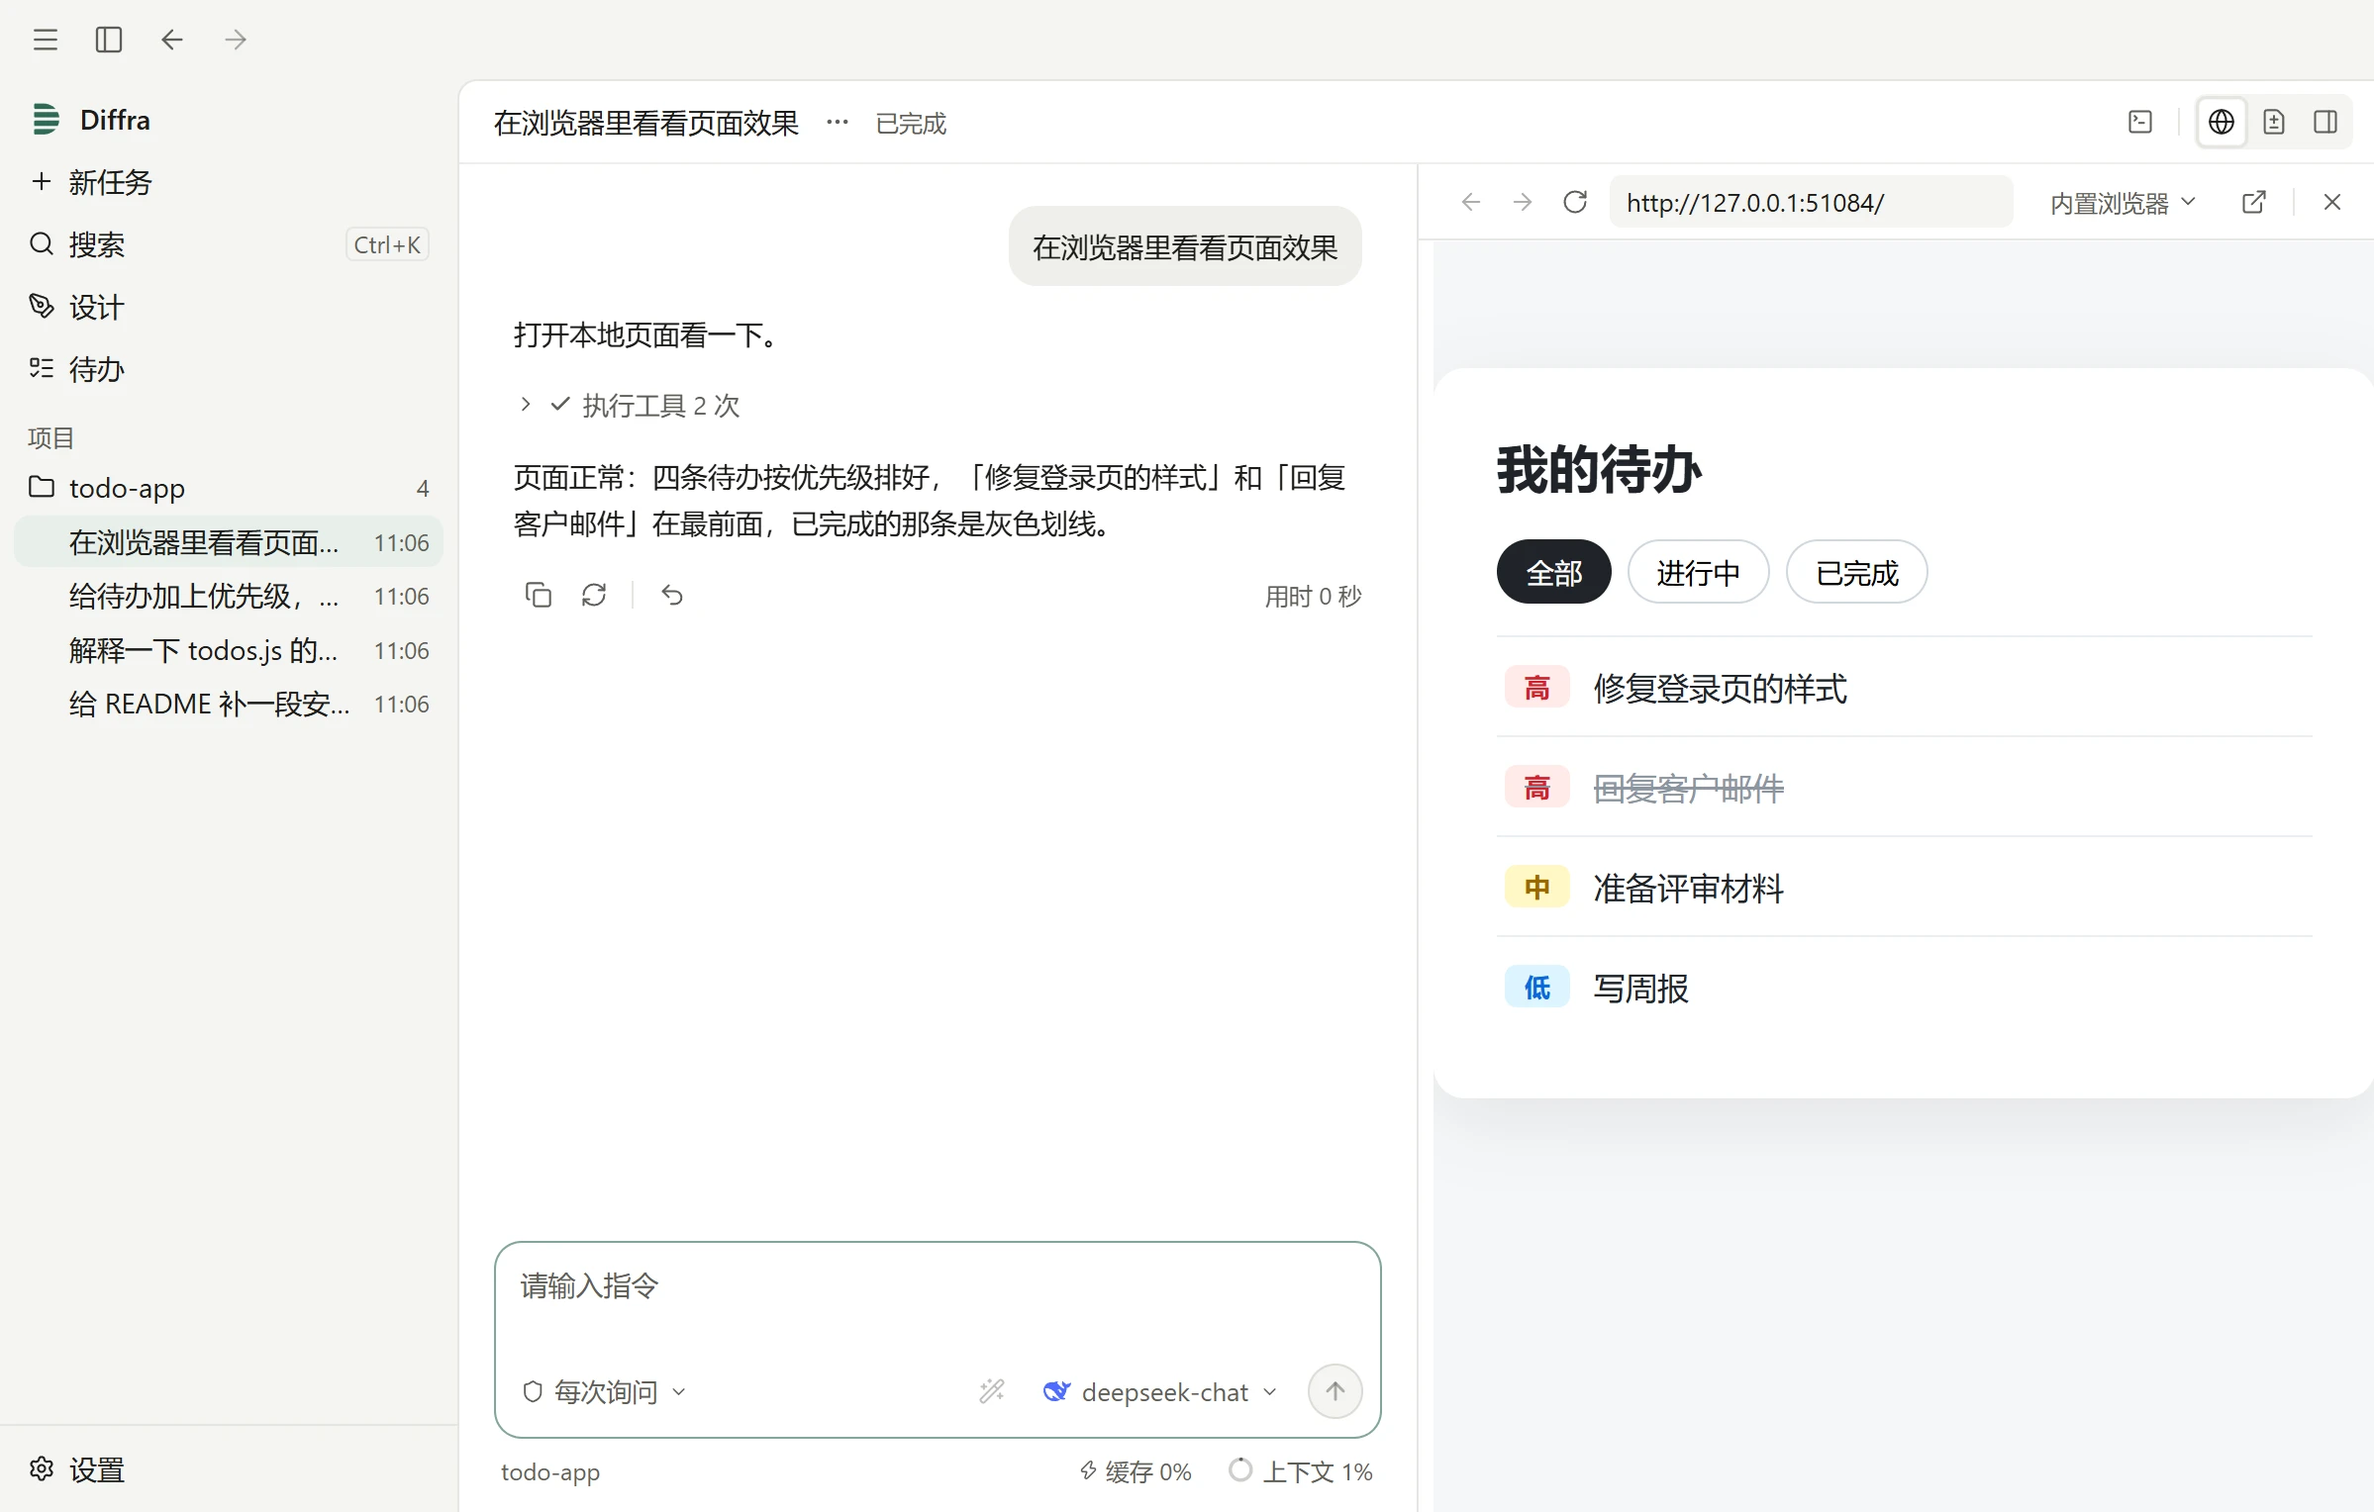
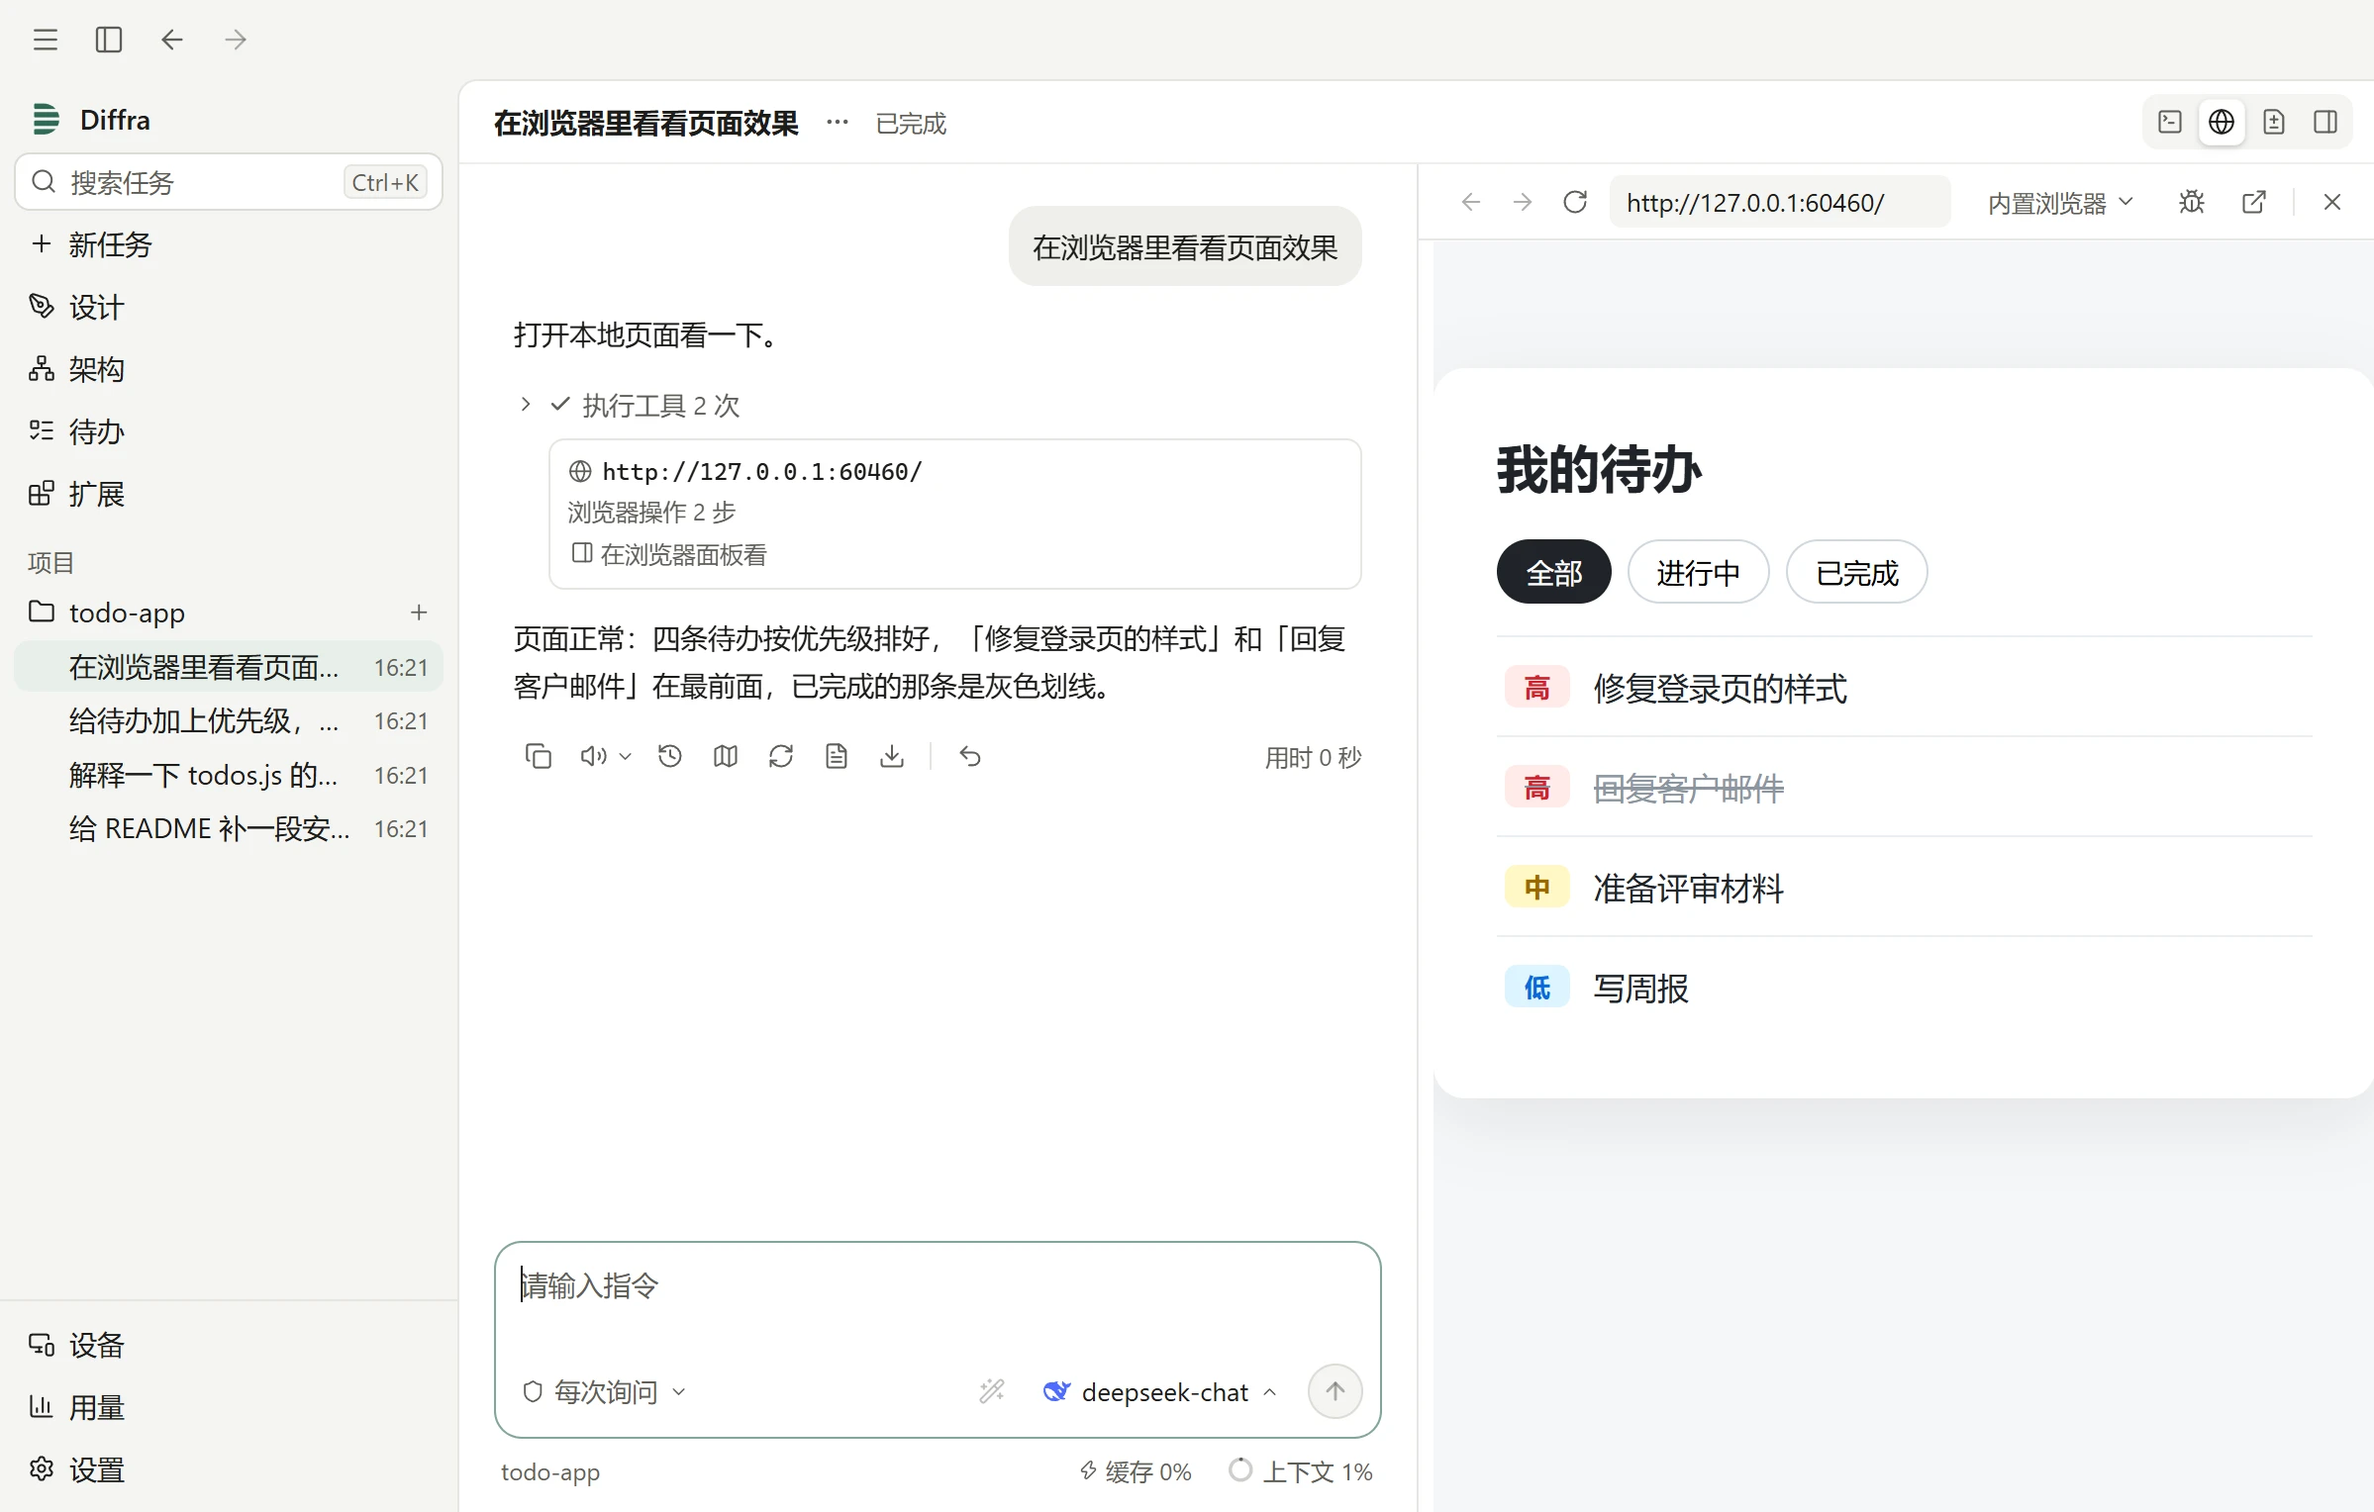
docs: 官网首页和快速开始改成智能体自己跑测试的说法，截图跟着重拍
首页去掉「改完先过检查」「静态检查、安全扫描和规范审查一起把关」「已验证」这些说法；快速开始的检查命令改成在项目设置里填，智能体自己决定跑不跑。

截图脚本的主场景改成智能体自己跑 node --test（先失败、实现后通过）。演示项目放到盘符根目录，命令输出里的路径不带本机用户名；启动时去掉 FORCE_COLOR，关掉下一句建议。

官网要等带这次改动的版本发布后再发布。

diff --git a/packages/desktop/scripts/shots/website.shots.ts b/packages/desktop/scripts/shots/website.shots.ts
@@ -4,8 +4,7 @@
 import { copyFileSync, mkdirSync, mkdtempSync, readFileSync, rmSync, writeFileSync } from 'node:fs'
 import { createServer, type Server } from 'node:http'
 import type { AddressInfo } from 'node:net'
-import { tmpdir } from 'node:os'
-import { extname, join, resolve } from 'node:path'
+import { extname, join, parse, resolve } from 'node:path'
 import { _electron as electron, chromium, type ElectronApplication, expect, type Page, test } from '@playwright/test'
 import { chooseProject, startDesignTask, startTask, waitTaskDone } from '../../e2e/flows'
 import { APP_VERSION, desktopDir } from '../../e2e/launch'
@@ -202,7 +201,8 @@ async function capture(app: ElectronApplication, window: Page, name: string): Pr
 }
 
 async function launch(userDataDir: string): Promise<ElectronApplication> {
-  const env = Object.fromEntries(Object.entries(process.env).filter((entry): entry is [string, string] => entry[1] !== undefined && entry[0] !== 'ELECTRON_RUN_AS_NODE'))
+  // Playwright 设的 FORCE_COLOR 传到智能体跑的命令里，node 会多打一行和 NO_COLOR 冲突的警告
+  const env = Object.fromEntries(Object.entries(process.env).filter((entry): entry is [string, string] => entry[1] !== undefined && entry[0] !== 'ELECTRON_RUN_AS_NODE' && entry[0] !== 'FORCE_COLOR'))
   const app = await electron.launch({
     args: ['.', '--force-device-scale-factor=2'],
     cwd: desktopDir,
@@ -239,7 +239,8 @@ for (const theme of ['light', 'dark'] as const) {
   test(`官网截图（${theme === 'light' ? '浅色' : '深色'}）`, async () => {
     test.setTimeout(300_000)
     mkdirSync(SHOTS, { recursive: true })
-    const root = mkdtempSync(join(tmpdir(), 'diffra-shots-'))
+    // 截图里有命令输出，会带出项目路径：放在盘符根目录下，路径里不带本机用户名
+    const root = mkdtempSync(join(parse(desktopDir).root, 'diffra-shots-'))
     const userDataDir = join(root, 'data')
     mkdirSync(userDataDir)
     const project = writeDemoProject(root)
@@ -252,6 +253,8 @@ for (const theme of ['light', 'dark'] as const) {
         roles: { coder: null, planner: null, reviewer: null, fallback: null },
         appearance: { theme, palette: 'forest', fontSize: 'md', contentWidth: 'standard' },
         lastSeenVersion: APP_VERSION,
+        // 脚本模型给不出像样的下一句建议，输入框里不放
+        suggestions: { nextPrompt: false },
       }),
     )
     const model = await startScriptedModel([
@@ -265,7 +268,9 @@ for (const theme of ['light', 'dark'] as const) {
         text: '计划：\n\n1. 先写测试，定下规则：**高 > 中 > 低**，同级保持原来的顺序\n2. 在 `todos.js` 里加 `priority` 字段和 `sortByPriority`\n3. 列表按优先级排序，每条前面显示优先级标签',
         toolCalls: [addFile('test/priority.test.js', PRIORITY_TEST)],
       },
+      { match: '给待办加上优先级', text: '先跑一下测试，确认新测试会失败。', toolCalls: [exec('node --test')] },
       { match: '给待办加上优先级', text: '测试没过：`sortByPriority` 还没写，符合预期。现在实现它。', toolCalls: [replaceLines('src/todos.js', CREATE_TODO.replace(/\n$/, ''), CREATE_TODO_WITH_PRIORITY.replace(/\n$/, ''))] },
+      { match: '给待办加上优先级', toolCalls: [exec('node --test')] },
       { match: '给待办加上优先级', text: '测试通过了。最后让列表按优先级显示。', toolCalls: [replaceLines('src/app.js', APP_JS.replace(/\n$/, ''), APP_JS_WITH_PRIORITY.replace(/\n$/, ''))] },
       {
         match: '给待办加上优先级',
@@ -292,18 +297,26 @@ for (const theme of ['light', 'dark'] as const) {
       await startTask(window, '解释一下 todos.js 的结构')
       await waitTaskDone(window, 60_000)
 
-      // 主场景：先写测试（检查不过）再实现
+      // 主场景：先写测试、自己跑一遍（没过）再实现，再跑一遍通过
       await newTask()
       await startTask(window, '给待办加上优先级，列表按优先级排序')
       await waitTaskDone(window, 90_000)
+      // 没通过的命令默认展开：首图停在最后的总结上，先把它收起来
+      const failedCommand = window.locator('[data-testid="tool-call"][data-succeeded="false"]').first().locator('button[aria-expanded]').first()
+      await failedCommand.click()
+      await window.evaluate(`(() => {
+        const scroller = document.querySelector('[data-testid="turn"]').parentElement.parentElement
+        scroller.scrollTop = scroller.scrollHeight
+      })()`)
       await capture(app, window, `hero-${theme}`)
 
       await window.getByRole('button', { name: '展开代码详情', exact: true }).first().click()
-      // 没通过的那次检查放在画面上方，接着的修复跟在下面（对话的滚动容器在每一轮外面两层）
+      await failedCommand.click()
+      // 没通过的那次测试命令放在画面上方，接着的修复跟在下面（对话的滚动容器在每一轮外面两层）
       await window.evaluate(`(() => {
         const scroller = document.querySelector('[data-testid="turn"]').parentElement.parentElement
-        const check = document.querySelector('[data-testid="tool-call"][data-kind="check"]')
-        scroller.scrollTop += check.getBoundingClientRect().top - scroller.getBoundingClientRect().top - 140
+        const failed = document.querySelector('[data-testid="tool-call"][data-succeeded="false"]')
+        scroller.scrollTop += failed.getBoundingClientRect().top - scroller.getBoundingClientRect().top - 140
       })()`)
       await capture(app, window, `checks-${theme}`)
 

diff --git a/website/pages/index.html b/website/pages/index.html
@@ -2,7 +2,7 @@
   <div class="container">
     <p class="eyebrow"><b>公测</b>免费使用 · 模型用你自己的 API Key</p>
     <h1>描述任务，<br>Diffra 在你的项目里把它做完</h1>
-    <p class="lead">Windows 和 Mac 上的编程智能体。读代码、改代码、跑检查，做完把改动摆在你面前，每一轮都能撤销。</p>
+    <p class="lead">Windows 和 Mac 上的编程智能体。读代码、改代码、跑测试，做完把改动摆在你面前，每一轮都能撤销。</p>
     <div class="actions">
       <a class="button large" href="/download.html" data-download data-follow-platform>
         <svg viewBox="0 0 24 24" fill="none" stroke="currentColor" stroke-width="2.2" stroke-linecap="round" stroke-linejoin="round" aria-hidden="true"><path d="M12 4v11M7 10l5 5 5-5M5 20h14"/></svg>
@@ -14,7 +14,7 @@
     <div class="shot">
       <picture>
         <source srcset="/assets/shots/hero-dark.webp" media="(prefers-color-scheme: dark)">
-        <img src="/assets/shots/hero-light.webp" width="{{shot:hero}}" alt="Diffra 的任务页：智能体给待办应用加上优先级，三个文件的改动、检查结果和「已完成 · 已验证」的结论">
+        <img src="/assets/shots/hero-light.webp" width="{{shot:hero}}" alt="Diffra 的任务页：智能体给待办应用加上优先级，三个文件的改动、它自己跑的测试和「已完成」的结论">
       </picture>
     </div>
   </div>
@@ -45,8 +45,8 @@
     </div>
     <ol class="steps">
       <li><h3>描述任务</h3><p>用平常的话说要做什么。可以拖进文件和截图，或者用 @ 引用代码。</p></li>
-      <li><h3>Diffra 动手</h3><p>读懂项目、改代码，每次改完自动跑你项目的检查；没通过就自己接着修。</p></li>
-      <li><h3>你来验收</h3><p>改了哪些文件、过了哪些检查一目了然。逐处审阅改动，不满意一键撤销。</p></li>
+      <li><h3>Diffra 动手</h3><p>读懂项目、改代码，改完自己跑你项目的测试和检查来验证。</p></li>
+      <li><h3>你来验收</h3><p>改了哪些文件、跑了哪些测试一目了然。逐处审阅改动，不满意一键撤销。</p></li>
     </ol>
   </div>
 </section>
@@ -56,23 +56,23 @@
     <div class="section-head">
       <p class="kicker">功能</p>
       <h2>不只是会写代码</h2>
-      <p>Diffra 把「改完以后」的事也做了：检查、审阅、在浏览器里看效果，交到你手上的是能验收的结果。</p>
+      <p>Diffra 把「改完以后」的事也做了：跑测试、审阅、在浏览器里看效果，交到你手上的是能验收的结果。</p>
     </div>
 
     <div class="feature">
       <div>
-        <h3>改完先过检查，没通过就接着修</h3>
-        <p>Diffra 不靠「看起来改好了」交差。每次改完都会跑你项目里的检查命令，没通过就读回错误继续修。</p>
+        <h3>改完自己跑测试，结果摆在你面前</h3>
+        <p>Diffra 知道你项目怎么检查，改完由智能体自己决定跑哪些测试和检查，跑了什么、过没过都写在对话里。</p>
         <ul>
-          <li>改动后自动跑快速检查，结束前再跑完整检查</li>
-          <li>静态检查、安全扫描和规范审查一起把关</li>
-          <li>「已验证」以实际跑过的结果为准，不听模型自己说</li>
+          <li>检查命令能从项目里自动检测，在项目设置里填一次，智能体跑它时不用你逐次确认</li>
+          <li>测试没过，智能体读回错误接着改</li>
+          <li>本轮报告列出改了哪些文件、跑了哪些命令和测试</li>
         </ul>
       </div>
       <div class="shot">
         <picture>
           <source srcset="/assets/shots/checks-dark.webp" media="(prefers-color-scheme: dark)">
-          <img src="/assets/shots/checks-light.webp" width="{{shot:checks}}" loading="lazy" alt="先写的测试没通过，智能体接着实现，再次检查通过">
+          <img src="/assets/shots/checks-light.webp" width="{{shot:checks}}" loading="lazy" alt="先写的测试没过，智能体接着实现，再跑一遍测试通过">
         </picture>
       </div>
     </div>

diff --git a/website/pages/docs.html b/website/pages/docs.html
@@ -36,16 +36,16 @@
     <ol>
       <li>回到首页，在输入框下面的项目下拉里点「选择文件夹…」，选你的项目。</li>
       <li>用平常的话描述要做什么，比如「给待办加上优先级，列表按优先级排序」。可以把文件、截图拖进输入框，或者用 @ 引用文件。</li>
-      <li>点发送（或按 <code>Ctrl</code> + <code>Enter</code>）。Diffra 会读项目、改代码，每次改完跑一遍检查。</li>
+      <li>点发送（或按 <code>Ctrl</code> + <code>Enter</code>）。Diffra 会读项目、改代码，改完自己跑测试验证。</li>
     </ol>
-    <p>检查命令在任务页右侧「任务监控」的「检查」里设置：Diffra 能从项目里检测出来（比如 <code>package.json</code> 里的 test 脚本），你确认、试运行一次后保存；也可以点「编辑检查命令」自己写。设好以后每次改完都会跑，没通过它会读回错误接着修。</p>
+    <p>检查命令在项目设置里填（任务页顶栏的菜单 →「项目设置」）：Diffra 能从项目里检测出来（比如 <code>package.json</code> 里的 test 脚本），你确认、试运行一次后保存；也可以自己写。填好以后智能体知道这个项目怎么检查，改完由它决定跑不跑、跑哪部分，跑这条命令时不用你逐次确认。</p>
 
     <h2 id="review">4. 审阅和撤销</h2>
-    <p>任务做完会出现「本轮交付」：改了哪些文件、增删多少行、过了哪些检查。</p>
+    <p>任务做完会出现「本轮交付」：改了哪些文件、增删多少行。</p>
     <ul>
       <li>点「审阅改动」，逐个文件看差异。</li>
       <li>不满意就点「撤销改动」，这一轮的改动全部退回。撤销用的是 Diffra 自己的检查点，不碰你的 Git。</li>
-      <li>任务页右侧的「任务监控」随时显示进度、改动的文件和检查结果。</li>
+      <li>任务页右侧的「任务监控」随时显示进度和改动的文件。</li>
     </ul>
     <div class="shot">
       <picture>
